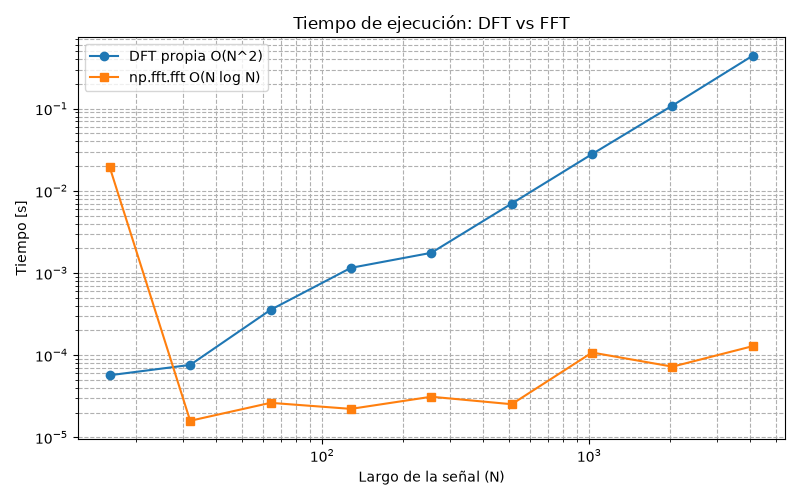
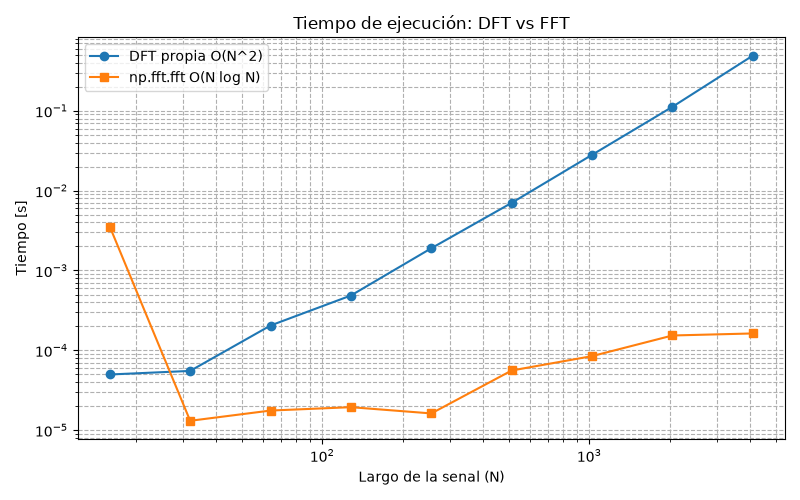
lab 1: Parte comun - Se completaron las tablas y figuras de la parte común

Changed region(s): [[0.0312, 0.09, 1.0, 0.9], [0.0938, 0.09, 0.125, 0.12]]

diff --git a/generar_figuras.py b/generar_figuras.py
@@ -1,21 +1,40 @@
-import numpy as np  
-import matplotlib.pyplot as plt
+"""Genera las figuras y tablas de la parte comun del Laboratorio 1.
+
+Cada funcion corresponde a una tarea del enunciado del lab . Al final en main se
+ejecutan todas y se crean los .png y .csv 
+
+Nota: np.fft se usa aqui solo como referencia para medir tiempos y como
+referencia de la "FFT real", no dentro de las implementaciones de la parte
+comun (que estan en src/psi_lab/lab1/).
+"""
+
+import csv
 import time
 
-from psi_lab.lab1.muestreo import muestrear, frecuencia_alias
-from psi_lab.lab1.dft import dft, espectro
+import matplotlib
 
-def tarea1_muestreo ():
+matplotlib.use("Agg")  # backend sin pantalla (CI / Docker)
+
+import matplotlib.pyplot as plt
+import numpy as np
+
+from psi_lab.lab1.convolucion import convolucion_directa, convolucion_fft
+from psi_lab.lab1.dft import dft, espectro
+from psi_lab.lab1.filtros import fir_pasabajos, filtrar, respuesta_frecuencia
+from psi_lab.lab1.muestreo import frecuencia_alias, muestrear
+
+
+def tarea1_muestreo():
     print("TAREA 1 : MUESTREO Y ALIASING")
     fs = 10
     frecuencias = [3, 7, 13, 23]
 
-    #1. Tabña de aliasing
-    print(f"{'f [Hz]':<10} | {'Alias Teórico':<15} | {'Alias Medido'}")
+    # 1. Tabla de aliasing
+    print(f"{'f [Hz]':<10} | {'Alias Teorico':<15} | {'Alias Medido'}")
     print("-" * 45)
     for f in frecuencias:
-        t, x= muestrear(lambda t, f=f: np.cos(2* np.pi * f * t), fs , duracion=2)
-        freqs, amp= espectro(x, fs)
+        t, x = muestrear(lambda t, f=f: np.cos(2 * np.pi * f * t), fs, duracion=2)
+        freqs, amp = espectro(x, fs)
         f_medida = freqs[np.argmax(amp)]
         f_teorica = frecuencia_alias(f, fs)
         print(f"{f:<10} | {f_teorica:<15.2f} | {f_medida:.2f}")
@@ -30,7 +49,8 @@ def tarea1_muestreo ():
     plt.figure(figsize=(10, 4))
     plt.plot(t_cont, x3_cont, label="Continua 3 Hz", alpha=0.7)
     plt.plot(t_cont, x13_cont, label="Continua 13 Hz", linestyle="--", alpha=0.7)
-    plt.stem(t_samp, x_samp, linefmt="k-", markerfmt="ko", basefmt="k-", label="Muestras a 10 Hz")
+    plt.stem(t_samp, x_samp, linefmt="k-", markerfmt="ko", basefmt="k-",
+             label="Muestras a 10 Hz")
     plt.title("Aliasing: 3 Hz y 13 Hz muestreadas a 10 Hz")
     plt.xlabel("Tiempo [s]")
     plt.legend()
@@ -38,30 +58,31 @@ def tarea1_muestreo ():
     plt.savefig("tarea1_aliasing.png")
     plt.close()
 
+
 def tarea2_dft():
-    print("\n TAREA 2: DFT, RESOLUCIÓN Y FUGA")
-    
-    # 1. Tiempos de ejecución DFT vs FFT
-    N_vals = [2**i for i in range(4, 13)]
+    print("\nTAREA 2: DFT, RESOLUCION Y FUGA")
+
+    # 1. Tiempos de ejecucion DFT vs FFT
+    n_vals = [2 ** i for i in range(4, 13)]
     tiempos_dft = []
     tiempos_fft = []
-    
-    for N in N_vals:
-        x = np.random.randn(N)
-        
+
+    for n in n_vals:
+        x = np.random.randn(n)
+
         t0 = time.perf_counter()
         dft(x)
         tiempos_dft.append(time.perf_counter() - t0)
-        
+
         t0 = time.perf_counter()
         np.fft.fft(x)
         tiempos_fft.append(time.perf_counter() - t0)
 
     plt.figure(figsize=(8, 5))
-    plt.loglog(N_vals, tiempos_dft, 'o-', label="DFT propia O(N^2)")
-    plt.loglog(N_vals, tiempos_fft, 's-', label="np.fft.fft O(N log N)")
+    plt.loglog(n_vals, tiempos_dft, "o-", label="DFT propia O(N^2)")
+    plt.loglog(n_vals, tiempos_fft, "s-", label="np.fft.fft O(N log N)")
     plt.title("Tiempo de ejecución: DFT vs FFT")
-    plt.xlabel("Largo de la señal (N)")
+    plt.xlabel("Largo de la senal (N)")
     plt.ylabel("Tiempo [s]")
     plt.grid(True, which="both", ls="--")
     plt.legend()
@@ -69,34 +90,33 @@ def tarea2_dft():
     plt.savefig("tarea2_tiempos.png")
     plt.close()
 
-    # 2. Resolución para distintos T
+    # 2. Resolucion para distintos T
     fs = 1000
     duraciones = [0.25, 0.5, 1, 2]
     plt.figure(figsize=(12, 8))
-    
+
     for i, T in enumerate(duraciones, 1):
         t = np.arange(int(fs * T)) / fs
         x = np.cos(2 * np.pi * 50 * t) + np.cos(2 * np.pi * 52 * t)
         freqs, amp = espectro(x, fs)
-        
+
         plt.subplot(2, 2, i)
         plt.plot(freqs, amp)
         plt.xlim(45, 57)
-        plt.title(f"T = {T} s (Δf = {1/T:.2f} Hz)")
+        plt.title(f"T = {T} s (Δf = {1 / T:.2f} Hz)")
         plt.grid(True)
-    
+
     plt.tight_layout()
     plt.savefig("tarea2_resolucion.png")
     plt.close()
 
-    # 3. Fuga y ventanas (Tono débil oculto)
+    # 3. Fuga y ventanas (tono debil oculto)
     t = np.arange(int(fs * 1)) / fs
     x = np.cos(2 * np.pi * 50 * t) + 1e-3 * np.cos(2 * np.pi * 80 * t)
-    
+
     freqs_rect, amp_rect = espectro(x, fs, ventana="rect")
     freqs_hann, amp_hann = espectro(x, fs, ventana="hann")
-    
-    # Evitar log(0) sumando un epsilon
+
     amp_rect_db = 20 * np.log10(amp_rect + 1e-12)
     amp_hann_db = 20 * np.log10(amp_hann + 1e-12)
 
@@ -114,7 +134,233 @@ def tarea2_dft():
     plt.savefig("tarea2_fuga_ventanas.png")
     plt.close()
 
+
+def tarea2_zero_padding():
+    print("\nTAREA 2 : RELLENO CON CEROS")
+    fs = 1000
+    T = 0.25
+    t = np.arange(int(fs * T)) / fs          # N = 250 muestras
+    x = np.cos(2 * np.pi * 50 * t) + np.cos(2 * np.pi * 52 * t)
+    nfft = 8 * t.size
+
+    freqs, amp = espectro(x, fs)             # nfft = N
+    freqs_z, amp_z = espectro(x, fs, nfft=nfft)  # nfft = 8N
+
+    # Conteo de picos locales en la zona de interes (verificacion numerica).
+    def contar_picos(f, a):
+        zona = (f >= 45) & (f <= 60)
+        a = a[zona]
+        return int(np.sum((a[1:-1] > a[:-2]) & (a[1:-1] > a[2:])))
+
+    fig, ax = plt.subplots(1, 2, figsize=(12, 4))
+    ax[0].plot(freqs, amp)
+    ax[0].set_title(f"Sin relleno (nfft = N = {t.size}), {contar_picos(freqs, amp)} pico(s)")
+    ax[1].plot(freqs_z, amp_z)
+    ax[1].set_title(f"Con relleno (nfft = 8N = {nfft}), {contar_picos(freqs_z, amp_z)} pico(s)")
+    for a in ax:
+        a.set_xlim(45, 60)
+        a.set_xlabel("Frecuencia [Hz]")
+        a.set_ylabel("Amplitud")
+        a.grid(True)
+    fig.suptitle("Relleno con ceros: los 2 tonos (50 y 52 Hz) siguen sin separarse")
+    fig.tight_layout()
+    fig.savefig("tarea2_zero_padding.png")
+    plt.close()
+    print("  Los dos tonos de 2 Hz de separacion (df = 1/T = 4 Hz) no se resuelven;")
+    print("  el relleno solo interpola (apariencia), no mejora la resolucion.")
+
+
+def _convolucion_fft_numpy(x, h):
+    """Convolucion lineal via np.fft (solo referencia de tiempos)."""
+    largo = x.size + h.size - 1
+    xp = np.fft.fft(x, largo)
+    hp = np.fft.fft(h, largo)
+    return np.real(np.fft.ifft(xp * hp))
+
+
+def tarea3_convolucion():
+    print("\nTAREA 3: CONVOLUCION")
+
+    # 2. Convolucion circular (sin relleno) vs lineal (correcta).
+    x = np.arange(1, 9, dtype=float)      # [1, 2, ..., 8]
+    h = np.array([1.0, 1.0, 1.0])          # promedio movil de 3
+
+    lineal = convolucion_directa(x, h)
+    circular = convolucion_fft(x, h, rellenar=False)
+
+    fig, ax = plt.subplots(1, 2, figsize=(12, 4))
+    ax[0].stem(np.arange(lineal.size), lineal)
+    ax[0].set_title(f"Lineal (relleno con ceros), largo {lineal.size}")
+    ax[1].stem(np.arange(circular.size), circular)
+    ax[1].set_title(f"Circular (sin relleno), largo {circular.size}")
+    for a in ax:
+        a.set_xlabel("n")
+        a.set_ylabel("y[n]")
+        a.grid(True)
+    fig.suptitle("Sin relleno de ceros la cola se 'enrolla' sobre el comienzo")
+    fig.tight_layout()
+    fig.savefig("tarea3_convolucion_circular.png")
+    plt.close()
+
+    # 3. Tiempos en funcion del largo del filtro.
+    n = 1024
+    largos_h = [3, 7, 15, 31, 63, 127, 255, 511]
+    rng = np.random.default_rng(0)
+    x = rng.normal(size=n)
+
+    t_dir, t_fft_propia, t_fft_numpy = [], [], []
+    for m in largos_h:
+        h = rng.normal(size=m)
+        t0 = time.perf_counter()
+        convolucion_directa(x, h)
+        t_dir.append(time.perf_counter() - t0)
+
+        t0 = time.perf_counter()
+        convolucion_fft(x, h)            # usa la DFT O(N^2) propia
+        t_fft_propia.append(time.perf_counter() - t0)
+
+        t0 = time.perf_counter()
+        _convolucion_fft_numpy(x, h)     # FFT real O(N log N)
+        t_fft_numpy.append(time.perf_counter() - t0)
+
+    plt.figure(figsize=(8, 5))
+    plt.loglog(largos_h, t_dir, "o-", label="directa O(n*m)")
+    plt.loglog(largos_h, t_fft_propia, "s--", label="fft propia (DFT O(N^2))")
+    plt.loglog(largos_h, t_fft_numpy, "^-", label="FFT real (np.fft, O(N log N))")
+    plt.xlabel("Largo del filtro (m)")
+    plt.ylabel("Tiempo [s]")
+    plt.title("Convolucion: directa vs FFT (senal de largo fijo n=1024)")
+    plt.grid(True, which="both", ls="--")
+    plt.legend()
+    plt.tight_layout()
+    plt.savefig("tarea3_convolucion_tiempos.png")
+    plt.close()
+
+
+def _medir_filtro(h, fs):
+    """Ancho de transicion (a -40 dB) y atenuacion en rechazo de un pasabajos.
+
+    - Ancho de transicion: distancia entre el cruce de -3 dB (borde de la banda
+      de paso) y el primer cruce de -40 dB.
+    - Atenuacion en rechazo: nivel del primer lobulo lateral (primer maximo
+      local de |H| despues del primer nulo), que es el pico de la banda de
+      rechazo.
+    """
+    f, H = respuesta_frecuencia(h, fs)
+    db = 20 * np.log10(np.abs(H) + 1e-12)
+
+    cruce3 = np.flatnonzero(db < -3.0)
+    if cruce3.size == 0:
+        return np.nan, np.nan
+    i3 = cruce3[0]
+    f3 = f[i3]
+
+    cruce40 = np.flatnonzero((f > f3) & (db < -40.0))
+    f40 = f[cruce40[0]] if cruce40.size else np.nan
+    ancho = f40 - f3 if not np.isnan(f40) else np.nan
+
+    # Primer nulo y primer lobulo lateral (extremos locales de db).
+    d = np.diff(db)
+    i_min = np.flatnonzero((d[:-1] < 0) & (d[1:] > 0)) + 1  # minimos locales
+    i_max = np.flatnonzero((d[:-1] > 0) & (d[1:] < 0)) + 1  # maximos locales
+    nulos = i_min[i_min > i3]
+    if nulos.size == 0:
+        return ancho, np.nan
+    i_nulo = nulos[0]
+    lobulos = i_max[i_max > i_nulo]
+    atenuacion = -db[lobulos[0]] if lobulos.size else np.nan
+    return ancho, atenuacion
+
+
+def tarea4_filtros():
+    print("\nTAREA 4: FILTROS FIR POR VENTANA")
+    fs = 1000
+    fc = 100.0
+    n_coefs = [21, 51, 101, 201]
+    ventanas = ["rect", "hamming", "hann"]
+    etiquetas = {"rect": "Rectangular", "hamming": "Hamming", "hann": "Hann"}
+
+    # 2. |H(f)| en dB para cada (n_coef, ventana).
+    fig, ax = plt.subplots(1, 3, figsize=(15, 4), sharey=True)
+    for j, ventana in enumerate(ventanas):
+        for n_coef in n_coefs:
+            h = fir_pasabajos(fc, fs, n_coef, ventana)
+            f, H = respuesta_frecuencia(h, fs)
+            db = 20 * np.log10(np.abs(H) + 1e-12)
+            ax[j].plot(f, db, label=f"n_coef={n_coef}")
+        ax[j].axvline(fc, color="k", ls=":", lw=0.8)
+        ax[j].set_title(etiquetas[ventana])
+        ax[j].set_xlabel("Frecuencia [Hz]")
+        ax[j].set_ylim(-90, 5)
+        ax[j].grid(True)
+        ax[j].legend(fontsize=7)
+    ax[0].set_ylabel("|H(f)| [dB]")
+    fig.suptitle(f"Pasabajos FIR (fc={fc:.0f} Hz, fs={fs} Hz): efecto de n_coef y ventana")
+    fig.tight_layout()
+    fig.savefig("tarea4_respuesta_filtros.png")
+    plt.close()
+
+    # Tabla: ancho de transicion y atenuacion en rechazo.
+    print(f"{'Ventana':<12} | {'n_coef':<7} | {'Ancho transicion [Hz]':<22} | {'Atenuacion rechazo [dB]'}")
+    print("-" * 70)
+    filas = []
+    for ventana in ventanas:
+        for n_coef in n_coefs:
+            h = fir_pasabajos(fc, fs, n_coef, ventana)
+            ancho, atenuacion = _medir_filtro(h, fs)
+            filas.append((etiquetas[ventana], n_coef, ancho, atenuacion))
+            ancho_s = f"{ancho:.1f}" if not np.isnan(ancho) else "—"
+            print(f"{etiquetas[ventana]:<12} | {n_coef:<7} | {ancho_s:<22} | {atenuacion:.1f}")
+
+    with open("tarea4_tabla_filtros.csv", "w", newline="", encoding="utf-8") as fcsv:
+        w = csv.writer(fcsv)
+        w.writerow(["ventana", "n_coef", "ancho_transicion_Hz", "atenuacion_rechazo_dB"])
+        for ventana, n_coef, ancho, atenuacion in filas:
+            w.writerow([ventana, n_coef, ancho, atenuacion])
+
+    # 3. Chirp de 0 a 500 Hz filtrado con el pasabajos.
+    tarea4_chirp(fs, fc)
+
+
+def tarea4_chirp(fs=1000.0, fc=100.0):
+    T = 2.0
+    t = np.arange(int(fs * T)) / fs
+    f_max = 500.0
+    # Fase = 2*pi * integral de f(t) = 2*pi * (f_max/T) * t^2 / 2
+    x = np.cos(np.pi * (f_max / T) * t ** 2)
+
+    h = fir_pasabajos(fc, fs, n_coef=101, ventana="hamming")
+    y = filtrar(x, h)
+
+    # Instante en que la frecuencia instantanea cruza fc.
+    t_corte = T * fc / f_max
+
+    fig, ax = plt.subplots(2, 1, figsize=(10, 6), sharex=True)
+    ax[0].plot(t, x, lw=0.6, label="Chirp 0-500 Hz (entrada)")
+    ax[0].plot(t, y, lw=1.0, label=f"Filtrado (pasabajos fc={fc:.0f} Hz)")
+    ax[0].axvline(t_corte, color="k", ls=":", lw=0.8)
+    ax[0].set_ylabel("Amplitud")
+    ax[0].set_title(f"Chirp filtrado: antes de t={t_corte:.2f} s (f<{fc:.0f} Hz) pasa, despues se atenua")
+    ax[0].legend()
+    ax[0].grid(True)
+
+    f_inst = (f_max / T) * t
+    ax[1].plot(t, f_inst, label="Frecuencia instantanea")
+    ax[1].axhline(fc, color="k", ls=":", lw=0.8)
+    ax[1].axvline(t_corte, color="k", ls=":", lw=0.8)
+    ax[1].set_xlabel("Tiempo [s]")
+    ax[1].set_ylabel("Frecuencia [Hz]")
+    ax[1].legend()
+    ax[1].grid(True)
+    fig.tight_layout()
+    fig.savefig("tarea4_chirp_filtrado.png")
+    plt.close()
+
+
 if __name__ == "__main__":
     tarea1_muestreo()
     tarea2_dft()
-    print("Figuras de Tarea 1 y 2 generadas con éxito.")
+    tarea2_zero_padding()
+    tarea3_convolucion()
+    tarea4_filtros()
+    print("\nFiguras y tablas de la parte comun generadas con exito.")
